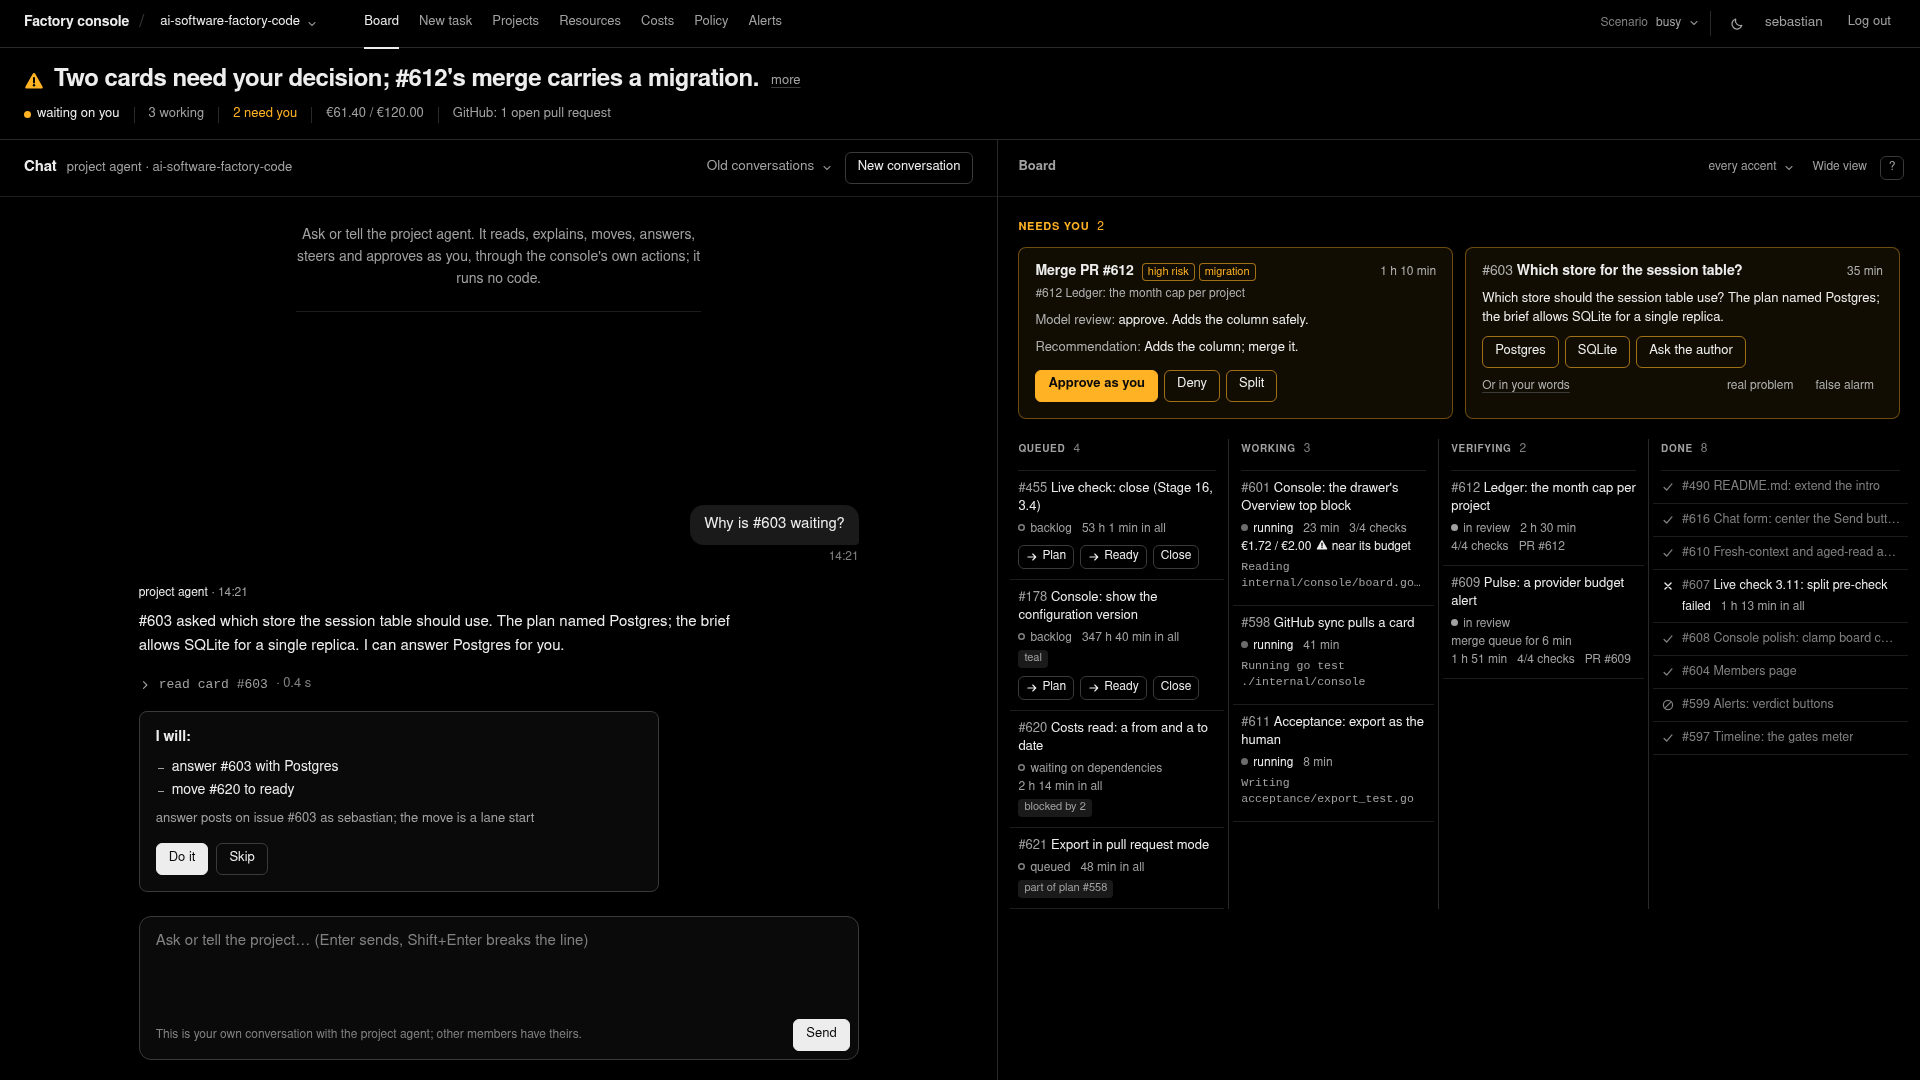
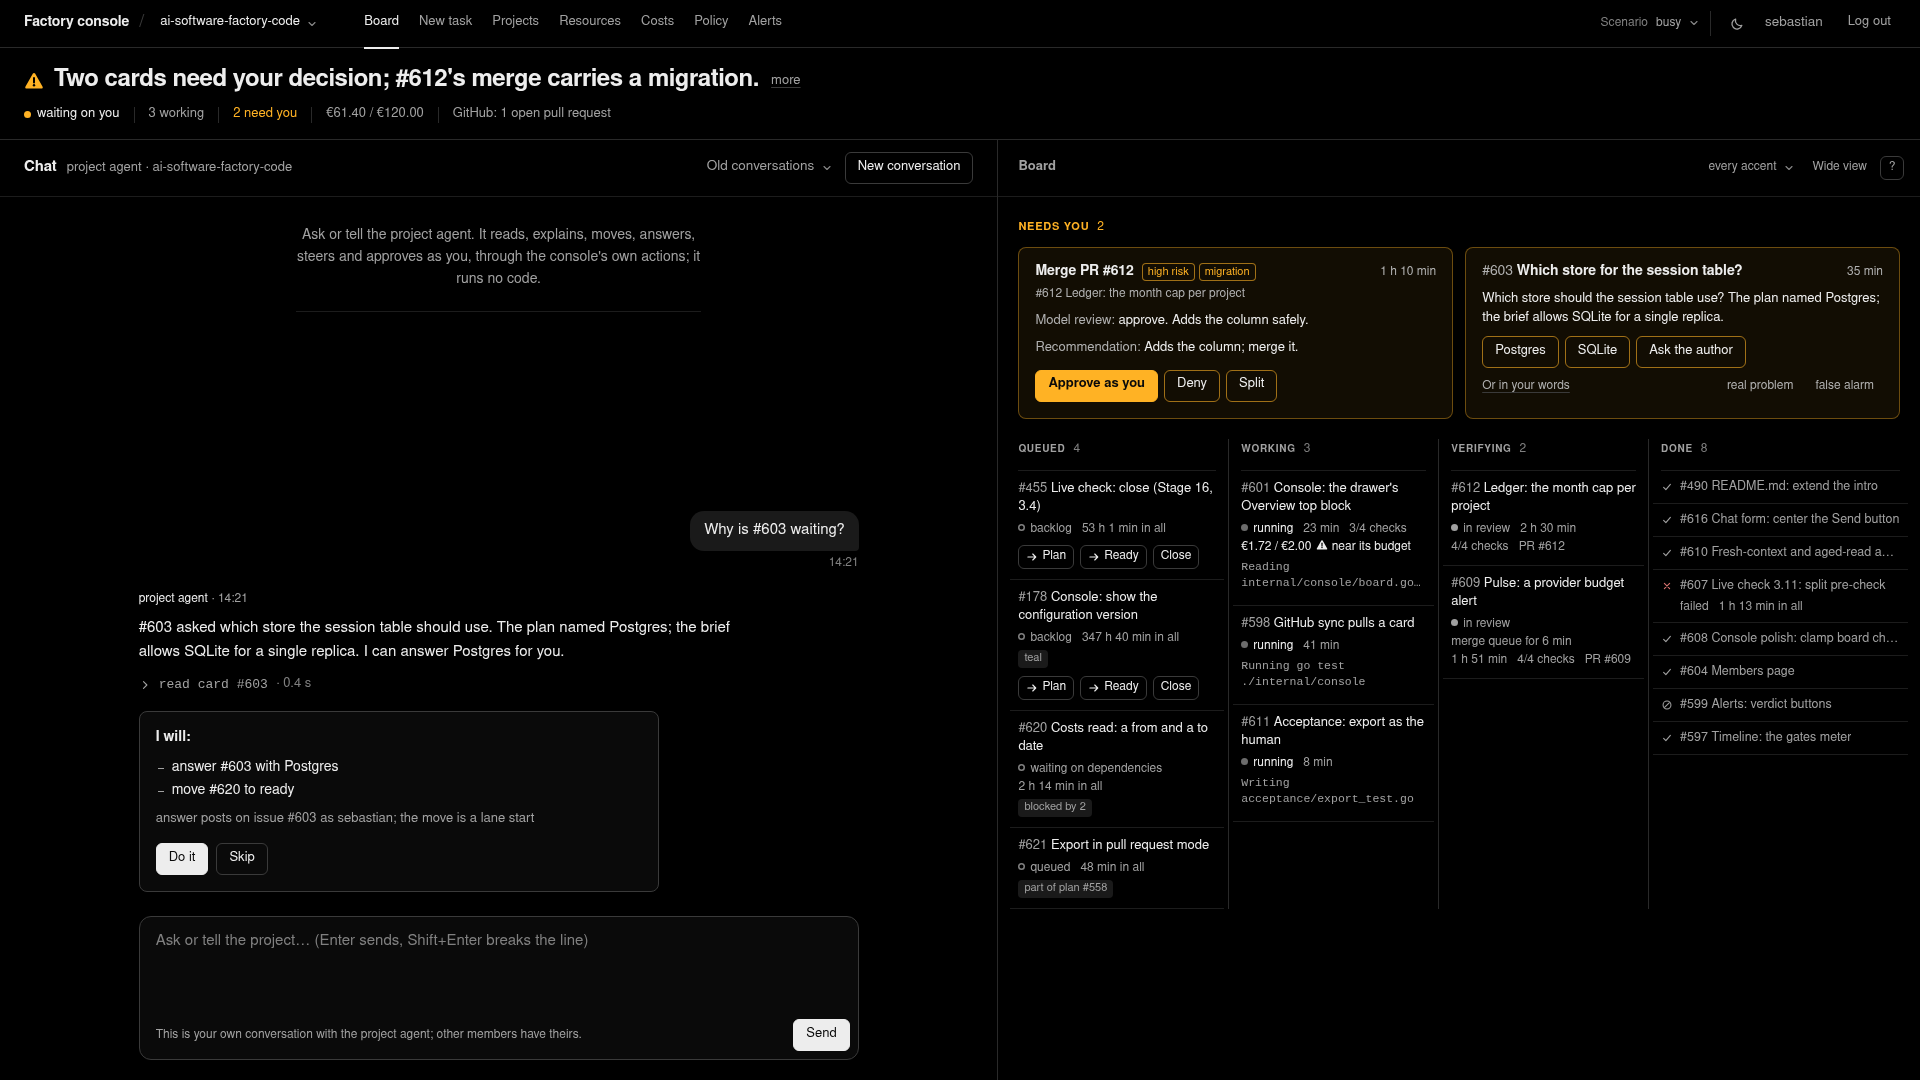
prototype 02 Geist contrast: fix loop 2 (quiet Done rows, the composer's line, the turn's rhythm, phone button alignment), final

Changed region(s): [[0.875, 0.4278, 1.0, 0.7028], [0.0625, 0.55, 0.375, 0.6111], [0.3438, 0.4583, 0.4375, 0.5194]]

diff --git a/design/prototypes/02-geist-contrast/index.html b/design/prototypes/02-geist-contrast/index.html
@@ -26,7 +26,7 @@
   --line: #1c1c1c; --line-region: #292929; --line-strong: #3a3a3a;
   --text: #ededed; --text-muted: #a1a1a1; --text-faint: #808080;
   --primary-bg: #ededed; --primary-fg: #0a0a0a; --primary-hover: #ffffff;
-  --need: #ffb224; --need-fill: #ffb224; --need-fill-hover: #ffc554; --need-fg: #0a0a0a; --need-fill-line: #ffb224;
+  --fail: #d9726f; --need: #ffb224; --need-fill: #ffb224; --need-fill-hover: #ffc554; --need-fg: #0a0a0a; --need-fill-line: #ffb224;
   --need-tint: rgb(255 178 36 / .07); --need-line: rgb(255 178 36 / .38); --need-line-strong: rgb(255 178 36 / .6); --need-muted: #b0b0b0;
   --shadow-drawer: -24px 0 48px rgb(0 0 0 / .5); --scrim: rgb(0 0 0 / .55); --shadow-soft: none; --ring: rgb(255 255 255 / .08);
 }
@@ -37,7 +37,7 @@
   --line: #ebebeb; --line-region: #e3e3e3; --line-strong: #d1d1d1;
   --text: #171717; --text-muted: #5c5c5c; --text-faint: #707070;
   --primary-bg: #171717; --primary-fg: #fff; --primary-hover: #383838;
-  --need: #a35200; --need-fill: #ffb224; --need-fill-hover: #ffa70a; --need-fg: #171717; --need-fill-line: #d18a0a;
+  --fail: #b54a46; --need: #a35200; --need-fill: #ffb224; --need-fill-hover: #ffa70a; --need-fg: #171717; --need-fill-line: #d18a0a;
   --need-tint: #fff6e5; --need-line: #f0c987; --need-line-strong: #d9a24a; --need-muted: #4a4a4a;
   --shadow-drawer: -12px 0 40px rgb(0 0 0 / .08); --scrim: rgb(250 250 250 / .6); --shadow-soft: 0 1px 2px rgb(0 0 0 / .04), 0 2px 8px rgb(0 0 0 / .03); --ring: rgb(0 0 0 / .06);
 }
@@ -166,12 +166,12 @@ label.lbl { display: block; font-size: 12px; color: var(--text-muted); margin: 0
 .cursor { display: inline-block; width: .55em; height: 1.05em; vertical-align: -3px; margin-left: 2px; background: var(--text); animation: blink 1s steps(1) infinite; }
 @keyframes blink { 50% { opacity: 0; } }
 .tool { font-size: 13px; }
-.tool summary { display: inline-flex; align-items: center; gap: 8px; cursor: pointer; color: var(--text-muted); list-style: none; padding: 4px 8px 4px 4px; margin-left: -4px; border-radius: var(--r-ctl); transition: background var(--t), color var(--t); }
+.tool summary { display: inline-flex; align-items: center; gap: 8px; cursor: pointer; color: var(--text-muted); list-style: none; padding: 3px 8px 3px 4px; margin: -3px 0 -3px -4px; line-height: 20px; border-radius: var(--r-ctl); transition: background var(--t), color var(--t); }
 .tool summary::-webkit-details-marker { display: none; }
 .tool summary:hover { background: var(--hover-strong); color: var(--text); }
 .tool summary .i { transition: transform var(--t); }
 .tool[open] summary .i { transform: rotate(90deg); }
-.tool-body { margin: 6px 0 0 22px; padding: 10px 12px; background: var(--bg-sub); border-radius: var(--r-ctl); font: 12px/18px var(--mono); color: var(--text-muted); display: grid; gap: 4px; overflow-wrap: anywhere; }
+.tool-body { margin: 10px 0 0 22px; padding: 10px 12px; background: var(--bg-sub); border-radius: var(--r-ctl); font: 12px/18px var(--mono); color: var(--text-muted); display: grid; gap: 4px; overflow-wrap: anywhere; }
 .tool-body b { color: var(--text-faint); font-weight: 400; margin-right: 8px; }
 .proposal { border: 1px solid var(--line-strong); background: var(--bg-raised); border-radius: var(--r-box); padding: 14px 16px 16px; box-shadow: var(--shadow-soft); display: grid; gap: 8px; max-width: 520px; }
 .proposal h4 { font-size: 14px; font-weight: 600; }
@@ -189,7 +189,7 @@ label.lbl { display: block; font-size: 12px; color: var(--text-muted); margin: 0
 .composer textarea { display: block; width: 100%; min-height: 96px; border: 0; background: transparent; resize: none; padding: 14px 16px 6px; font-size: 15px; line-height: 22px; outline: none; }
 .composer textarea::placeholder { color: var(--text-faint); }
 .composer-bar { display: flex; align-items: center; gap: 12px; padding: 6px 8px 8px 16px; }
-.own { font-size: 12px; color: var(--text-faint); line-height: 16px; min-width: 0; }
+.own { font-size: 12px; color: var(--text-muted); line-height: 16px; min-width: 0; }
 .composer-bar .btn { margin-left: auto; }
 .queue { display: grid; gap: 6px; margin-top: 10px; }
 .queue li { display: flex; align-items: center; gap: 8px; }
@@ -250,12 +250,12 @@ label.lbl { display: block; font-size: 12px; color: var(--text-muted); margin: 0
 .card .acts .btn-sm { gap: 4px; padding: 0 7px; }
 .card.is-stale { box-shadow: inset 0 0 0 1px var(--text-faint); border-radius: var(--r-ctl); border-bottom-color: transparent; margin-bottom: 1px; }
 .card-done { padding: 7px 8px; }
-.card-done .card-title { display: flex; align-items: center; gap: 7px; -webkit-line-clamp: unset; white-space: nowrap; font-weight: 400; color: var(--text-faint); font-size: 12.5px; }
+.card-done .card-title { display: flex; align-items: center; gap: 7px; -webkit-line-clamp: unset; white-space: nowrap; font-weight: 400; color: var(--text-muted); font-size: 12.5px; }
+.card-done .card-title .i { width: 12px; height: 12px; color: var(--text-muted); }
 .card-done .card-title .t-wrap { overflow: hidden; text-overflow: ellipsis; min-width: 0; }
-.card-done .ref { color: var(--text-faint); }
-.card-done.is-failed .card-title { color: var(--text); }
-.card-done.is-failed .card-title .i { color: var(--text); }
-.card-done.is-failed .meta { padding-left: 21px; }
+.card-done .ref { color: var(--text-muted); }
+.card-done.is-failed .card-title .i { color: var(--fail); }
+.card-done .meta { padding-left: 19px; }
 
 /* needs you */
 .need, .open.is-need { --text-muted: var(--need-muted); --text-faint: var(--need-muted); }
@@ -416,11 +416,11 @@ kbd { font: 12px/1 var(--mono); padding: 3px 6px; border: 1px solid var(--line-s
   .col-h { height: auto; }
   .col-needs { margin-bottom: 0; border-bottom: 1px solid var(--line-region); padding-bottom: 16px; }
   .needs-grid { grid-template-columns: 1fr; }
-  .need .acts .btn, .need .choices .btn, .need .row .btn, .need .verdict .btn { flex: 1 1 100%; width: 100%; height: 44px; font-size: 15px; }
+  .need .acts .btn, .need .choices .btn, .need .row .btn, .need .verdict .btn { flex: 1 1 100%; width: 100%; height: 44px; font-size: 15px; justify-content: flex-start; padding: 0 16px; }
   .need .verdict { display: grid; gap: 6px; margin: 0; }
   .need .verdict .btn { border: 1px solid var(--need-line-strong); color: var(--text); font-weight: 500; }
   .need-foot { flex-direction: column; flex-wrap: nowrap; align-items: stretch; gap: 6px; }
-  .need-foot .link { display: flex; align-items: center; justify-content: center; height: 44px; font-size: 15px; }
+  .need-foot .link { display: flex; align-items: center; height: 44px; padding: 0 16px; font-size: 15px; }
   .need .acts .btn-need { order: -1; }
   .cols { display: flex; flex-direction: column; }
   .cols .col { padding: 0; border-left: 0; border-bottom: 1px solid var(--line-region); }
@@ -764,7 +764,7 @@ function face(c, col) {
     const g = k === 'failed' ? 'x' : k === 'closed' ? 'slash' : 'check';
     return `<article class="card card-done${k === 'failed' ? ' is-failed' : ''}${open}" data-card="${c.issue}" title="${esc(c.status)} · ${esc(c.elapsed)} · ${esc(c.at)}">
       <button type="button" class="card-title" data-open="${c.issue}">${ic(g)}<span class="t-wrap"><span class="ref">#${c.issue}</span> <span class="t">${esc(c.title)}</span></span>${k === 'failed' ? '' : `<span class="sr-only">, ${esc(c.status)}</span>`}</button>
-      ${k === 'failed' ? `<p class="meta"><span class="hi">failed</span><span>${esc(c.elapsed)}</span></p>` : ''}</article>`;
+      ${k === 'failed' ? `<p class="meta"><span>failed</span><span>${esc(c.elapsed)}</span></p>` : ''}</article>`;
   }
   const act = (k === 'run' || c.provider || c.stale) && c.activity
     ? `<p class="activity" title="${esc(c.activity)}">${esc(c.activity)}</p>` : '';

diff --git a/design/themes/02-geist-contrast/DESIGN.md b/design/themes/02-geist-contrast/DESIGN.md
@@ -25,7 +25,7 @@ Vercel's Geist: pure black or pure white, greys for everything normal, one warm 
 | --need-fill | #ffb224, text #0a0a0a | #ffb224, text #171717 (9.9:1), border #d18a0a | Approve as you, Grant one session, Accept plan |
 | --need-tint / --need-line | amber 7 % / amber 38 % | #fff6e5 / #f0c987 | the Needs you item's ground and edge |
 | --need-muted | #b0b0b0 | #4a4a4a (8.3:1 on #fff6e5) | replaces --text-muted and --text-faint inside Needs you items and the drawer's open need |
-| state hues | greyscale | greyscale | running: filled dot in --text, pulsing; in review: filled dot in --text-muted; queued, backlog, waiting on dependencies: hollow ring; waiting on a human: amber dot; done: check; failed: cross in --text; closed: slashed circle. The word always follows the glyph, so colour is never the only signal |
+| state hues | greyscale | greyscale | running: filled dot in --text, pulsing; in review: filled dot in --text-muted; queued, backlog, waiting on dependencies: hollow ring; waiting on a human: amber dot; done: check in --text-muted; failed: cross in --fail (#d9726f dark, 6.6:1; #b54a46 light, 5.2:1), the only red; closed: slashed circle. The word always follows the glyph, so colour is never the only signal |
 
 Elevation: dark uses hairlines only; light adds soft shadows (drawer `-12px 0 40px rgb(0 0 0 / .08)`, composer and proposal `0 1px 2px rgb(0 0 0 / .04)`). That and the grey board tray make light a day mood, not an inversion.
 
@@ -60,9 +60,9 @@ Prominent (a card needs a person): the amber warning sign before the sentence, w
 - The start line tops every log, centred, 14 px muted, a 1 px rule under it: "Ask or tell the project agent. It reads, explains, moves, answers, steers and approves as you, through the console's own actions; it runs no code." The messages sit at the bottom of the log, by the composer, so the start line fills the space above a short history.
 - Yours: right-aligned bubble on --bg-sub, radius 14/14/4/14, time under it in --text-faint.
 - Agent: label "project agent · 14:21" in 12 px muted, text plain at full measure (72 ch).
-- Tool block: one quiet row, chevron, mono name, "· 0.4 s"; opens to arguments and result.
+- Tool block: one quiet row, chevron, mono name, "· 0.4 s"; opens to arguments and result. Every part of a turn (label, text, tool rows, proposal) is 10 px apart.
 - Proposal: --bg-raised, 1 px --line-strong, radius 8: "I will:" 600, the changes as a list, the detail in muted 13 px, Do it (primary) and Skip (ghost). Applied: one muted line with a check, the changes, "undo".
-- Composer: --bg-raised box, radius 12, three rows, Send primary at the bottom right, the own-conversation line at the bottom left in 12 px faint. Focus: border --text-muted plus a 3 px soft ring. The queue lists under the box, each line an editable field and a remove button.
+- Composer: --bg-raised box, radius 12, three rows, Send primary at the bottom right, the own-conversation line at the bottom left in 12 px --text-muted. Focus: border --text-muted plus a 3 px soft ring. The queue lists under the box, each line an editable field and a remove button.
 
 ## The board and the card
 
@@ -71,7 +71,7 @@ Prominent (a card needs a person): the amber warning sign before the sentence, w
 - Chips: 11 px on --bg-sub, radius 4. Exceptional chips (stale, on the provider, at its cap) are outlined in --text instead. The accent chip is the accent's name only: no hue, the board stays monochrome.
 - Stale card: an inset 1 px ring in --text-faint and "nothing for 40 min" in --text.
 - Done shows at most 12 rows, then one faint line "and n earlier" linking to the full list.
-- Done, closed: one line, glyph, ref, title, ellipsis, all --text-faint; the state word is in the glyph's label, the time in the row's title. Failed: two lines, the cross and title in --text, "failed · elapsed" under it.
+- Done, closed: one line, a 12 px glyph, ref, title, ellipsis, all --text-muted at weight 400; the state word is in the glyph's label, the time in the row's title. Failed: two lines, the cross in --fail, "failed" and the elapsed time under the title, all else --text-muted.
 - Actions: 24 px ghost buttons, 1 px --line-strong, radius 6, visible always.
 - Hover: the row takes --hover; the title underlines. The open card keeps --hover-strong.
 
@@ -93,7 +93,7 @@ Prominent (a card needs a person): the amber warning sign before the sentence, w
 
 ## The phone
 
-Under 900 px one column: top bar (the home word over the project select, a menu button for the links, the switch, theme, user and Log out), the pulse, the chat with its log at 55 percent of the viewport height and the composer, then the board: Needs you in full, every button in it full width, one per row, 44 px tall, then Working, Verifying, Queued, Done, each a section whose head toggles it; Done starts collapsed. The drawer takes the full screen.
+Under 900 px one column: top bar (the home word over the project select, a menu button for the links, the switch, theme, user and Log out), the pulse, the chat with its log at 55 percent of the viewport height and the composer, then the board: Needs you in full, every button in it full width, one per row, 44 px tall, its label left-aligned at 16 px, then Working, Verifying, Queued, Done, each a section whose head toggles it; Done starts collapsed. The drawer takes the full screen.
 
 ## Motion
 
